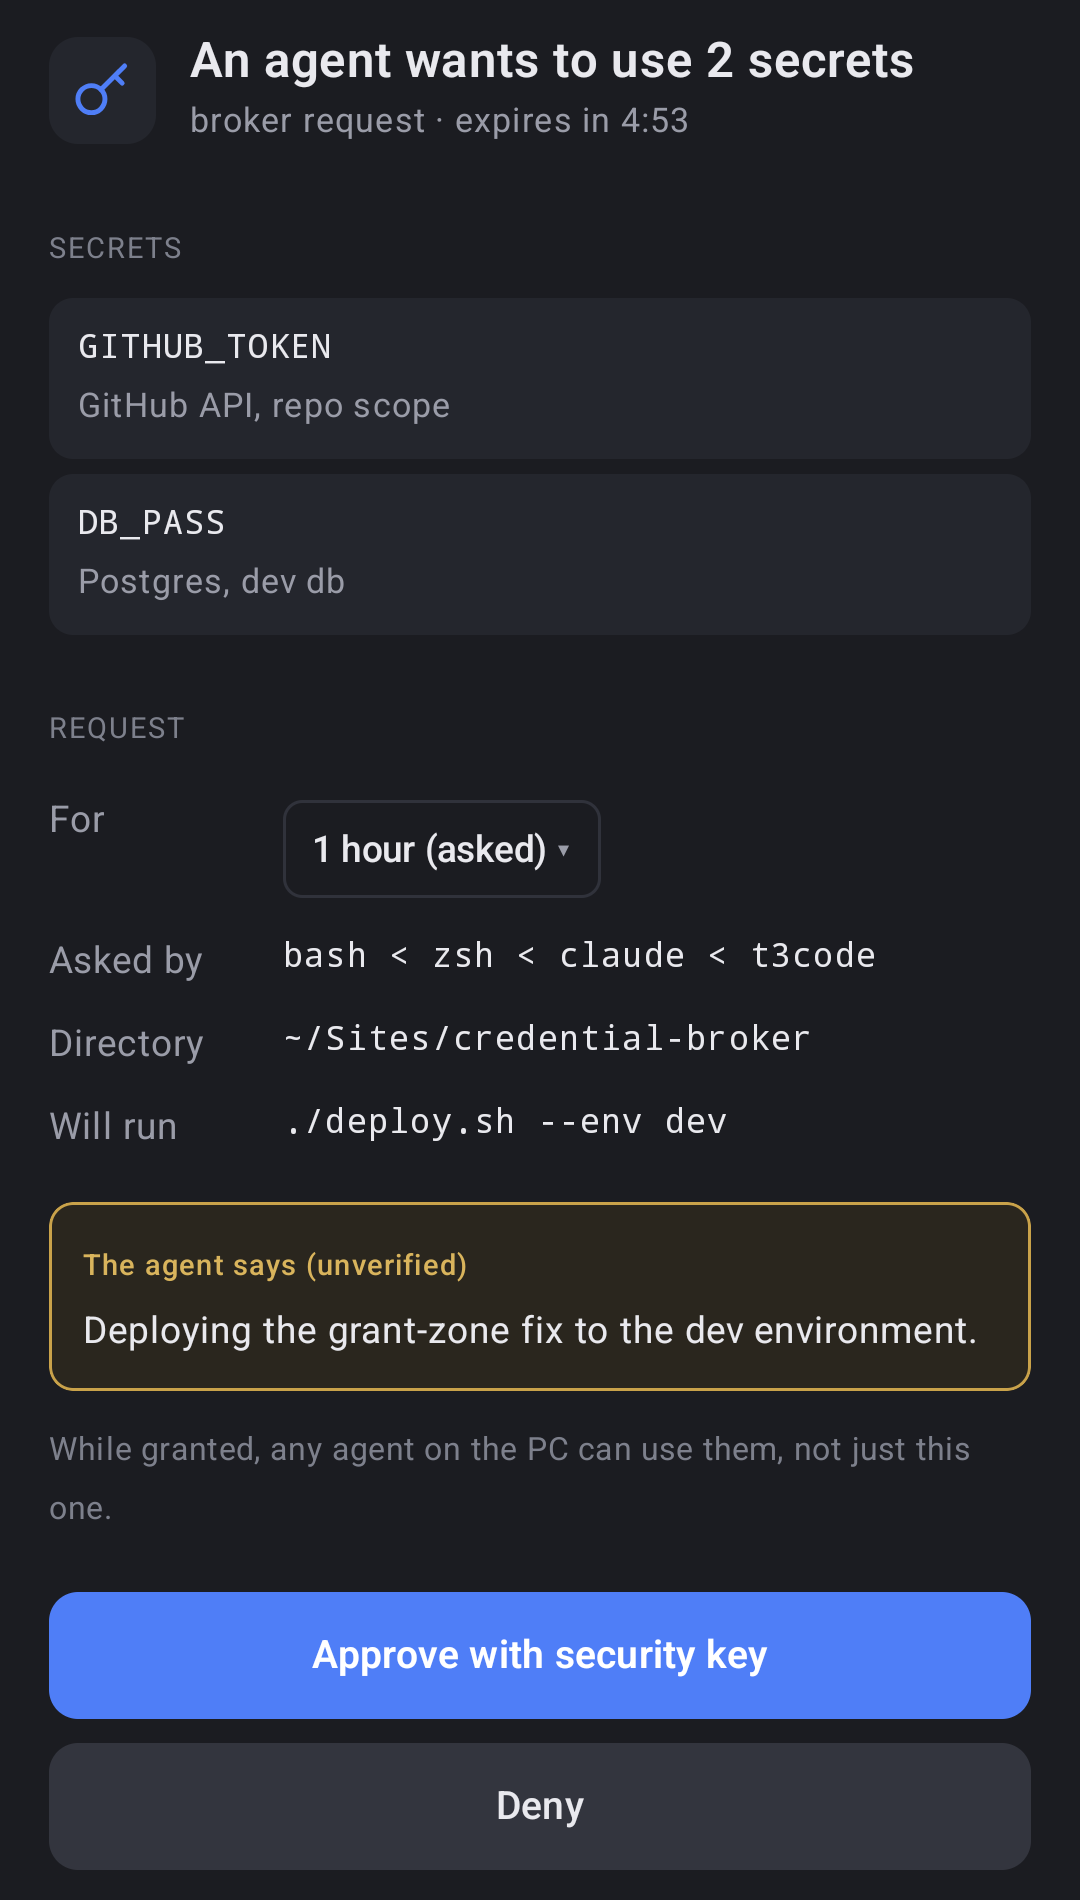
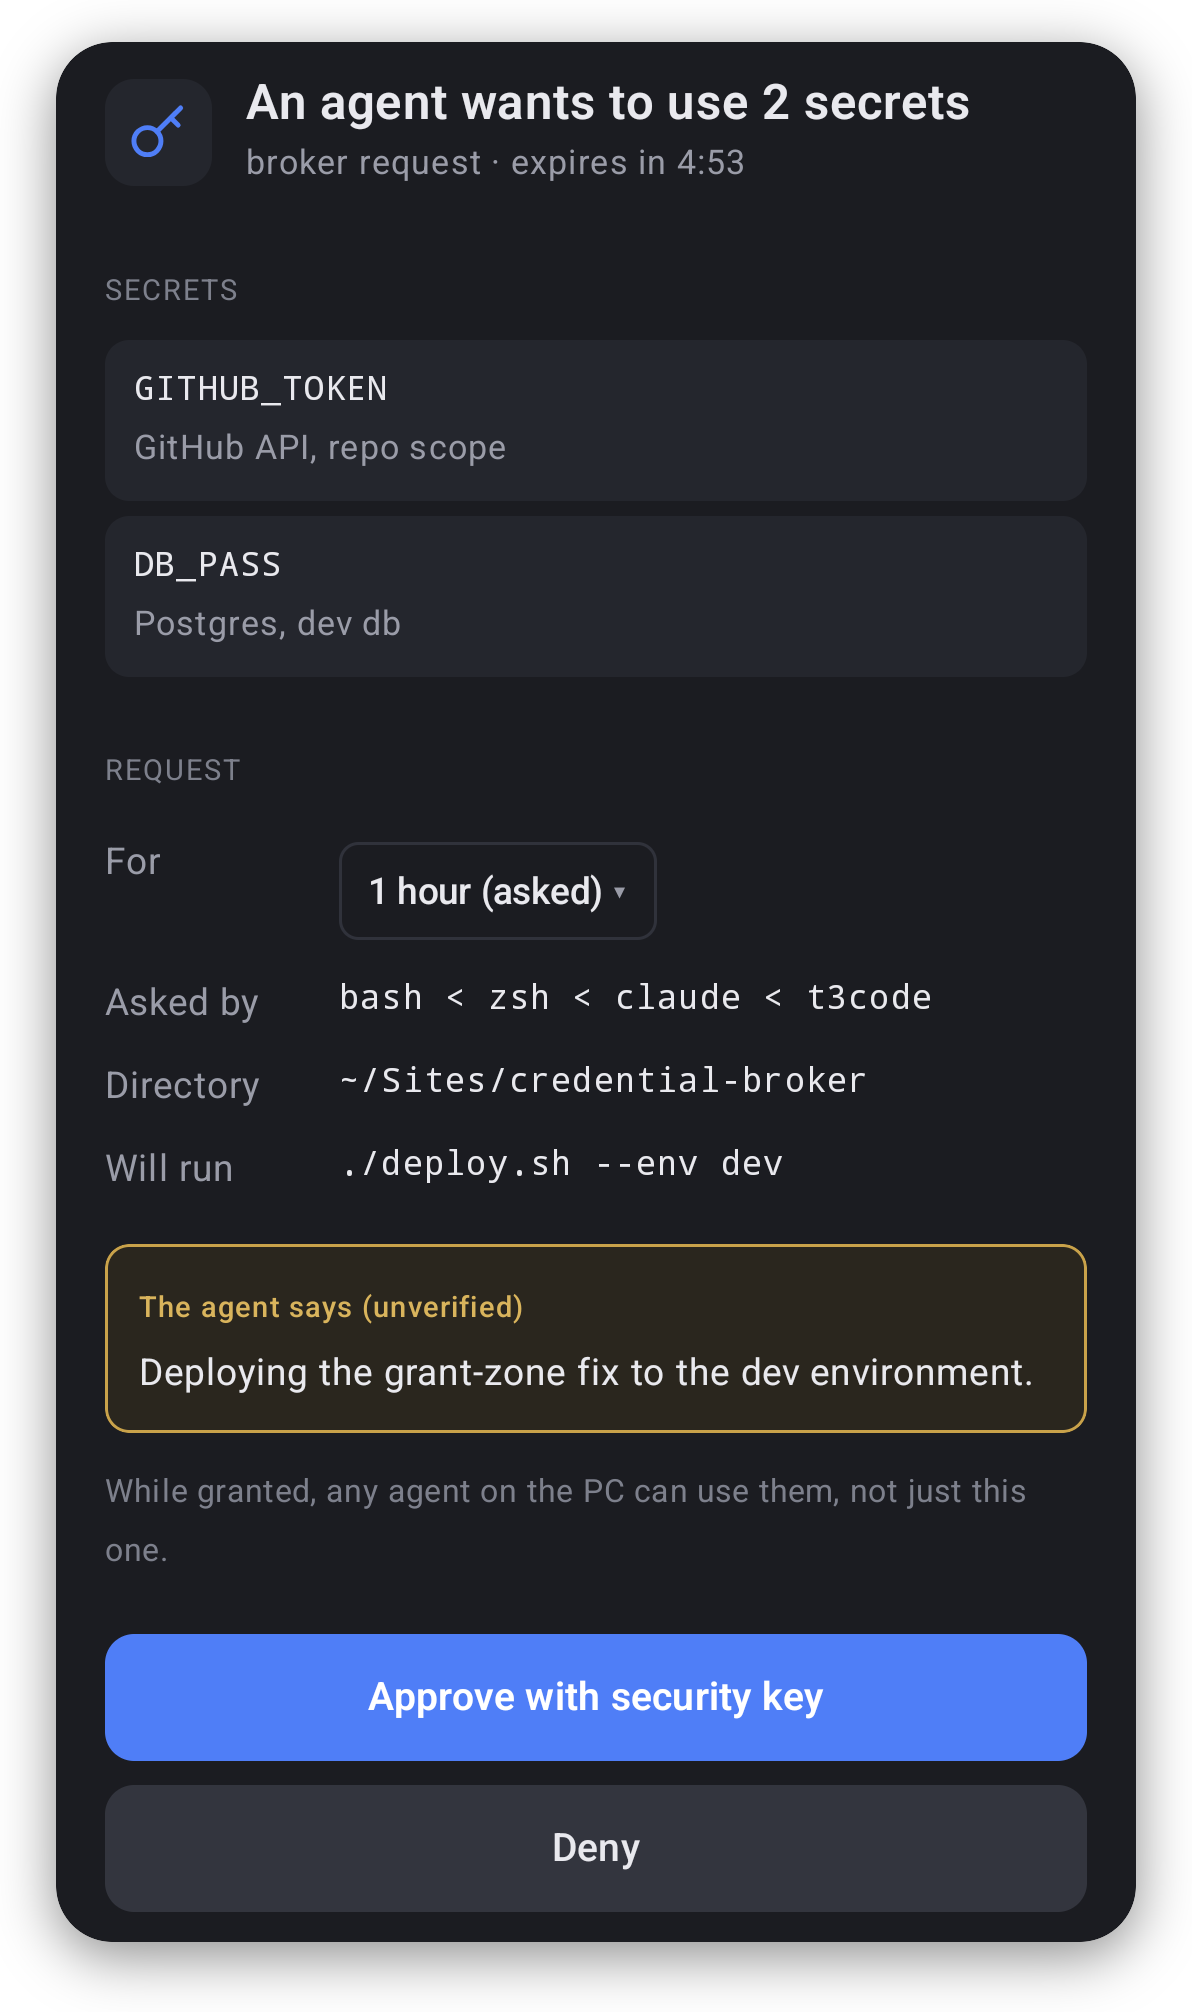
docs(readme): show the phone beside the desktop window up top

Changed region(s): [[0.0, 0.0, 1.0, 1.0], [0.8861, 0.6211, 0.9167, 0.6521], [0.55, 0.4347, 0.5806, 0.4658]]

diff --git a/README.md b/README.md
@@ -2,13 +2,14 @@
 
 # Credential Broker
 
-A local secret store for a machine where AI agents do most of the typing. Agents run commands **with** your secrets and never see them. When one needs a secret, this pops up on your desktop:
+A local secret store for a machine where AI agents do most of the typing. Agents run commands **with** your secrets and never see them. When one needs a secret, this pops up on your desktop, and on your phone if you're on the couch:
 
 <p align="center">
-  <img src="./artwork/request-window.png" alt="broker's request window: an agent asks for GITHUB_TOKEN and DB_PASS for an hour to run ./deploy.sh, with the process chain that asked, its directory, and its stated reason, waiting for a YubiKey touch" width="460">
+  <img src="./artwork/request-window.png" alt="broker's request window: an agent asks for GITHUB_TOKEN and DB_PASS for an hour to run ./deploy.sh, with the process chain that asked, its directory, and its stated reason, waiting for a YubiKey touch" width="420">
+  <img src="./artwork/phone-request.png" alt="The same request in broker's Android app: the secrets, the duration, the process chain, the directory and command, the agent's unverified reason, and buttons to approve with a security key or deny" width="280">
 </p>
 
-You touch your YubiKey (or Touch ID on a Mac), the command runs, and the grant is forgotten an hour later. That's the whole human side. The agent's side is two commands:
+You touch your YubiKey (or Touch ID on a Mac), the command runs, and the grant is forgotten an hour later. On the phone you tap a YubiKey on its back, no PIN, straight from a notification ([Approving from your phone](#approving-from-your-phone)). That's the whole human side. The agent's side is two commands:
 
 ```sh
 broker ls --json        # what secrets exist (names and descriptions, never values)
@@ -171,8 +172,7 @@ broker phone rm pixel    # rewraps the vault without that phone's key (one touch
 Android's WebAuthn insists on the key's FIDO2 PIN even when the page says it doesn't need one, so approving from Chrome means typing a PIN every time. broker's Android app skips that. It talks to the key itself over USB or NFC (CTAP2 `hmac-secret`, no user verification), so a touch approves, same as on the PC. Its notifications are native: the unlocked phone shows the secret names and the agent's reason, the lock screen only shows a count, Approve and Deny sit right on the notification, and it goes away once you answer on the desktop.
 
 <p align="center">
-  <img src="./artwork/phone-notification.png" alt="broker's notification on an unlocked Pixel: an agent wants GITHUB_TOKEN and DB_PASS for an hour, with its reason, the process chain that asked, a countdown, and Approve and Deny buttons" width="380">
-  <img src="./artwork/phone-request.png" alt="The same request open in the app: the secrets, the duration picker, the process chain, the directory and command, the agent's unverified reason, and buttons to approve with a security key or deny" width="260">
+  <img src="./artwork/phone-notification.png" alt="broker's notification on an unlocked Pixel: an agent wants GITHUB_TOKEN and DB_PASS for an hour, with its reason, the process chain that asked, a countdown, and Approve and Deny buttons" width="420">
 </p>
 
 It needs Android 8 or newer and a YubiKey 5 the phone can reach, tapped on the back over NFC or plugged into USB-C. It's tested on a Pixel with a YubiKey 5C NFC.
